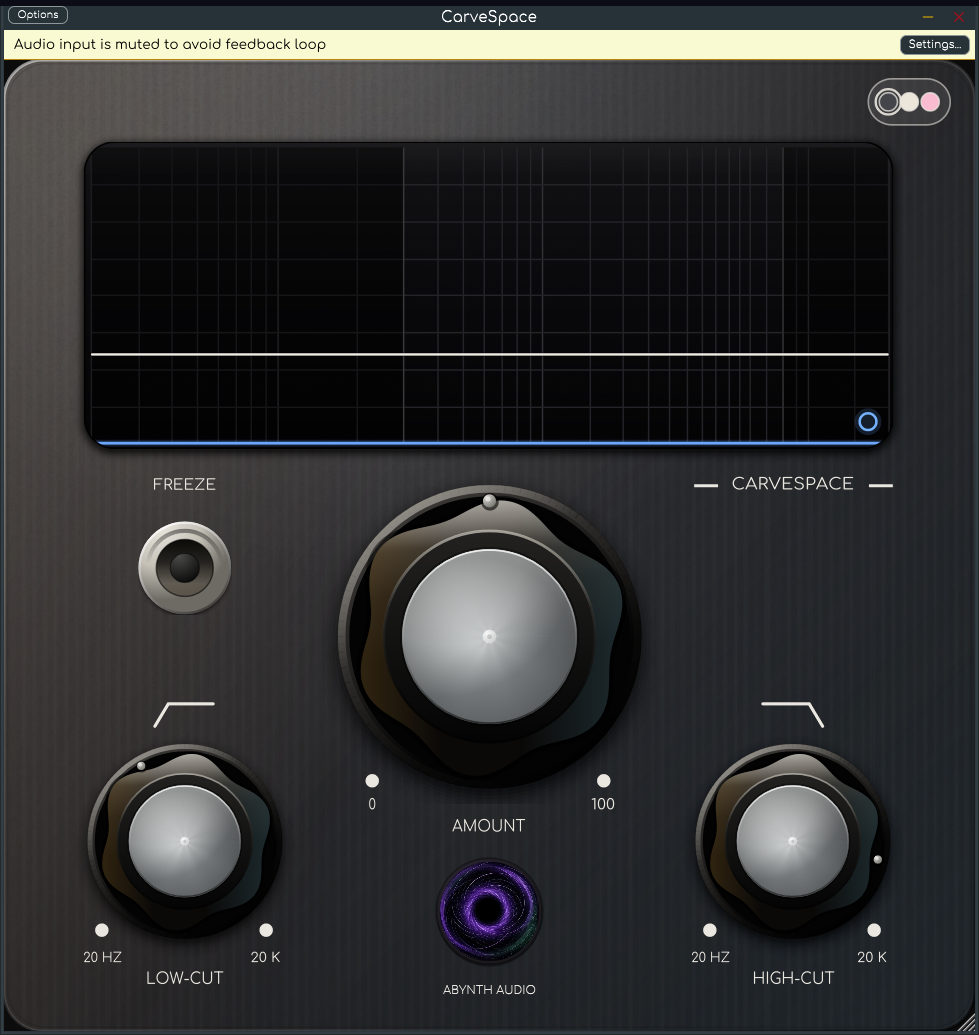
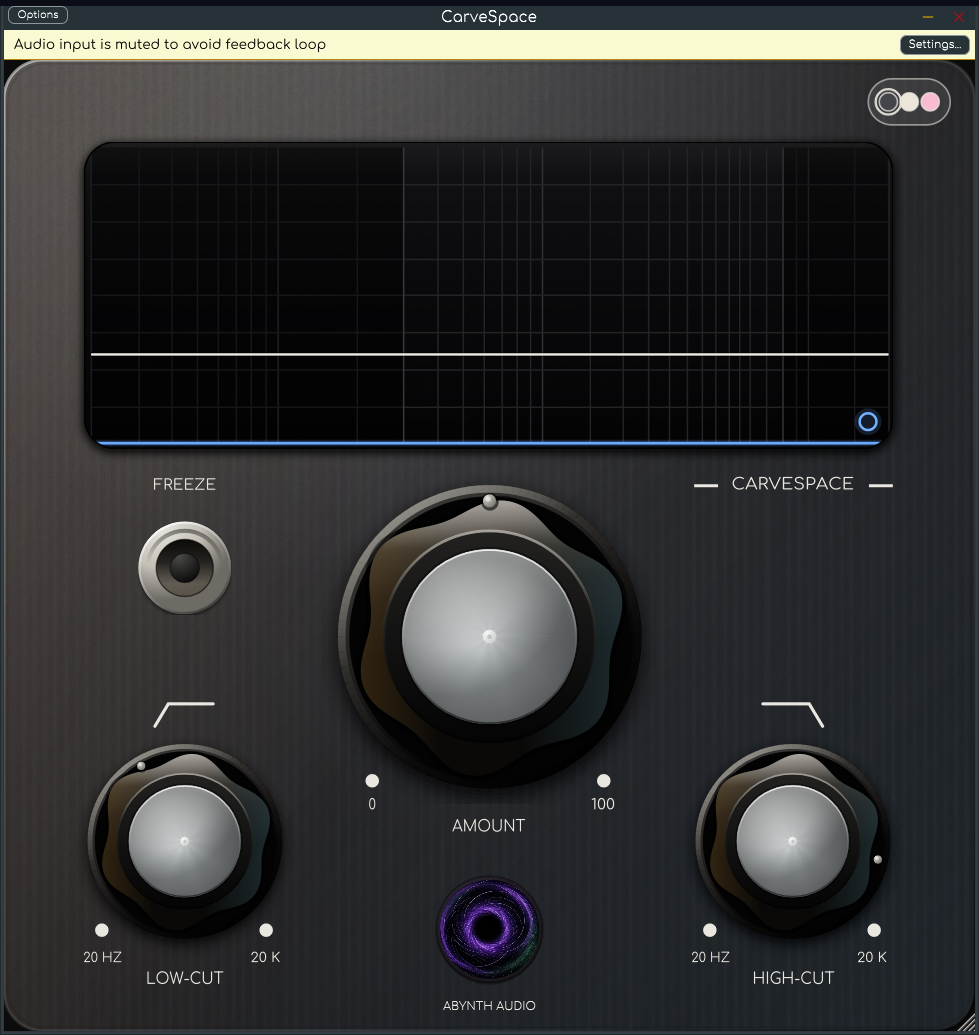
Lower the swirl badge on the faceplate

Changed region(s): [[0.429, 0.8348, 0.5516, 0.9894]]

diff --git a/src/gui/CarveSpaceLookAndFeel.h b/src/gui/CarveSpaceLookAndFeel.h
@@ -171,8 +171,8 @@ namespace layout
     inline const juce::Rectangle<float> bracketRight { 508.0f, 431.0f, 40.0f, 15.0f };
 
     // Brand badge and maker wordmark.
-    inline const juce::Rectangle<float> logo      { 290.0f, 535.0f, 70.0f, 70.0f };  // swirl badge, centred on x=325
-    inline const juce::Rectangle<float> wordmark  { 245.0f, 615.0f, 160.0f, 12.0f }; // small uppercase maker text
+    inline const juce::Rectangle<float> logo      { 290.0f, 547.0f, 70.0f, 70.0f };  // swirl badge, centred on x=325
+    inline const juce::Rectangle<float> wordmark  { 245.0f, 626.0f, 160.0f, 12.0f }; // small uppercase maker text
 
     // Always-visible theme / skin switcher (top-right of the plate).
     inline const juce::Rectangle<float> skinButton { 578.0f, 12.0f, 56.0f, 32.0f };
